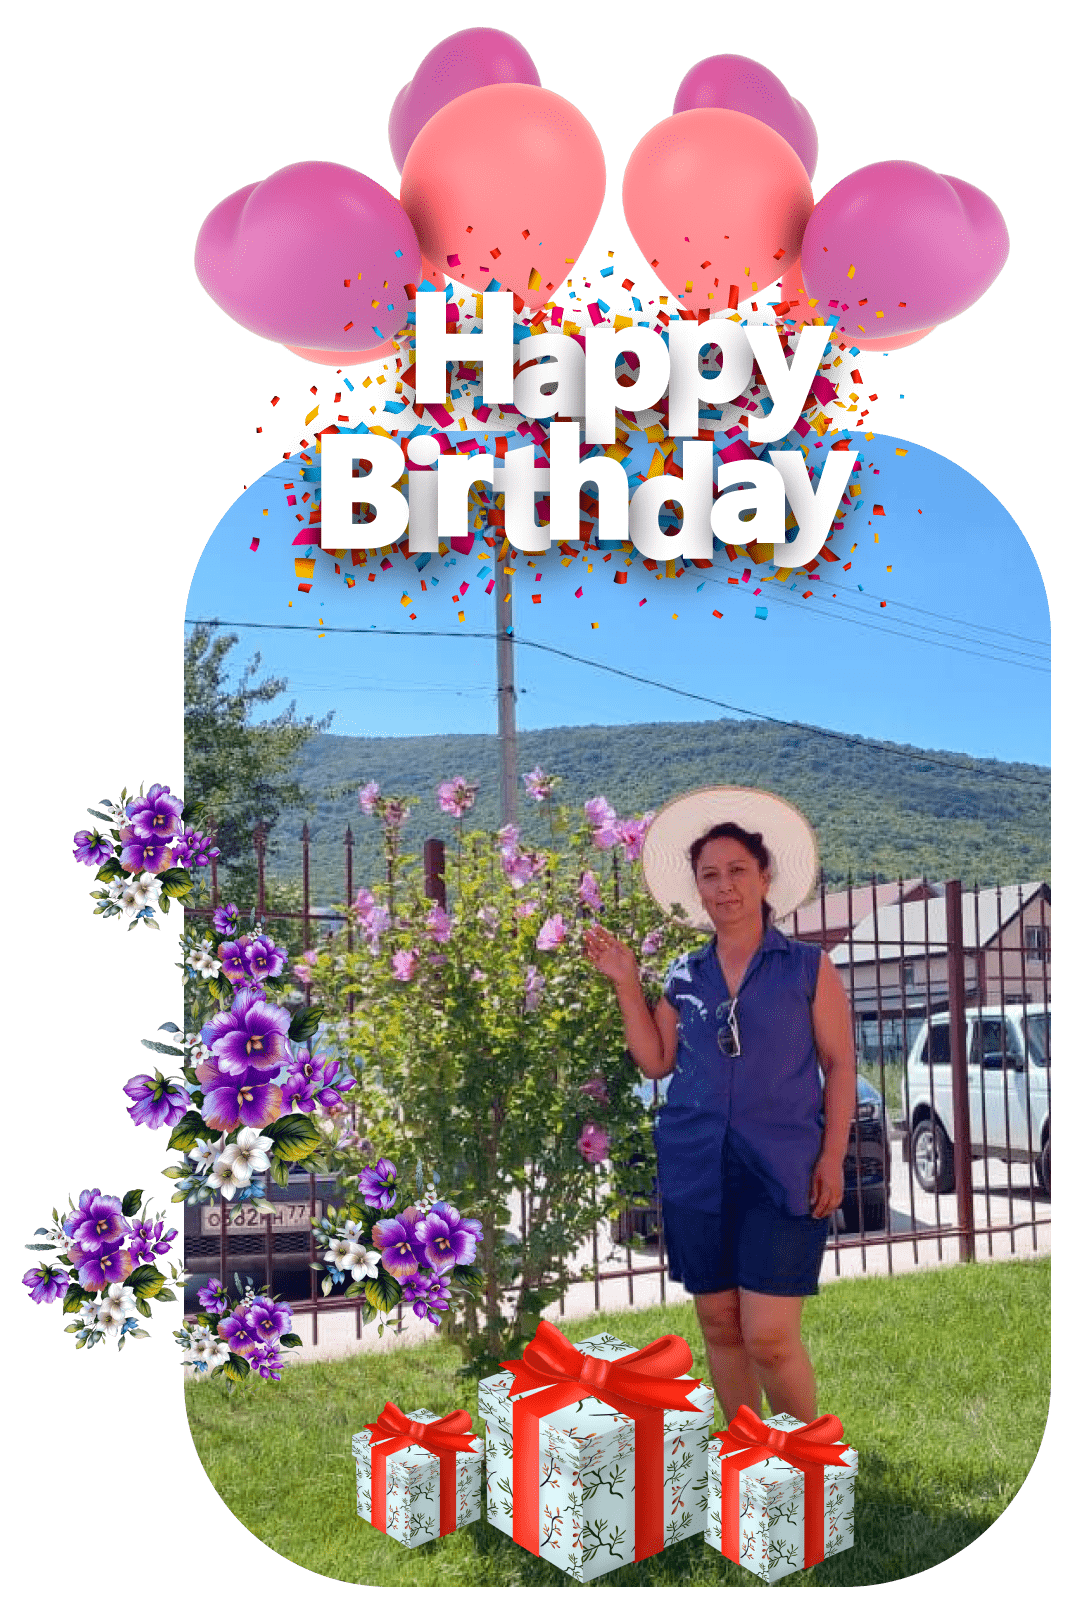
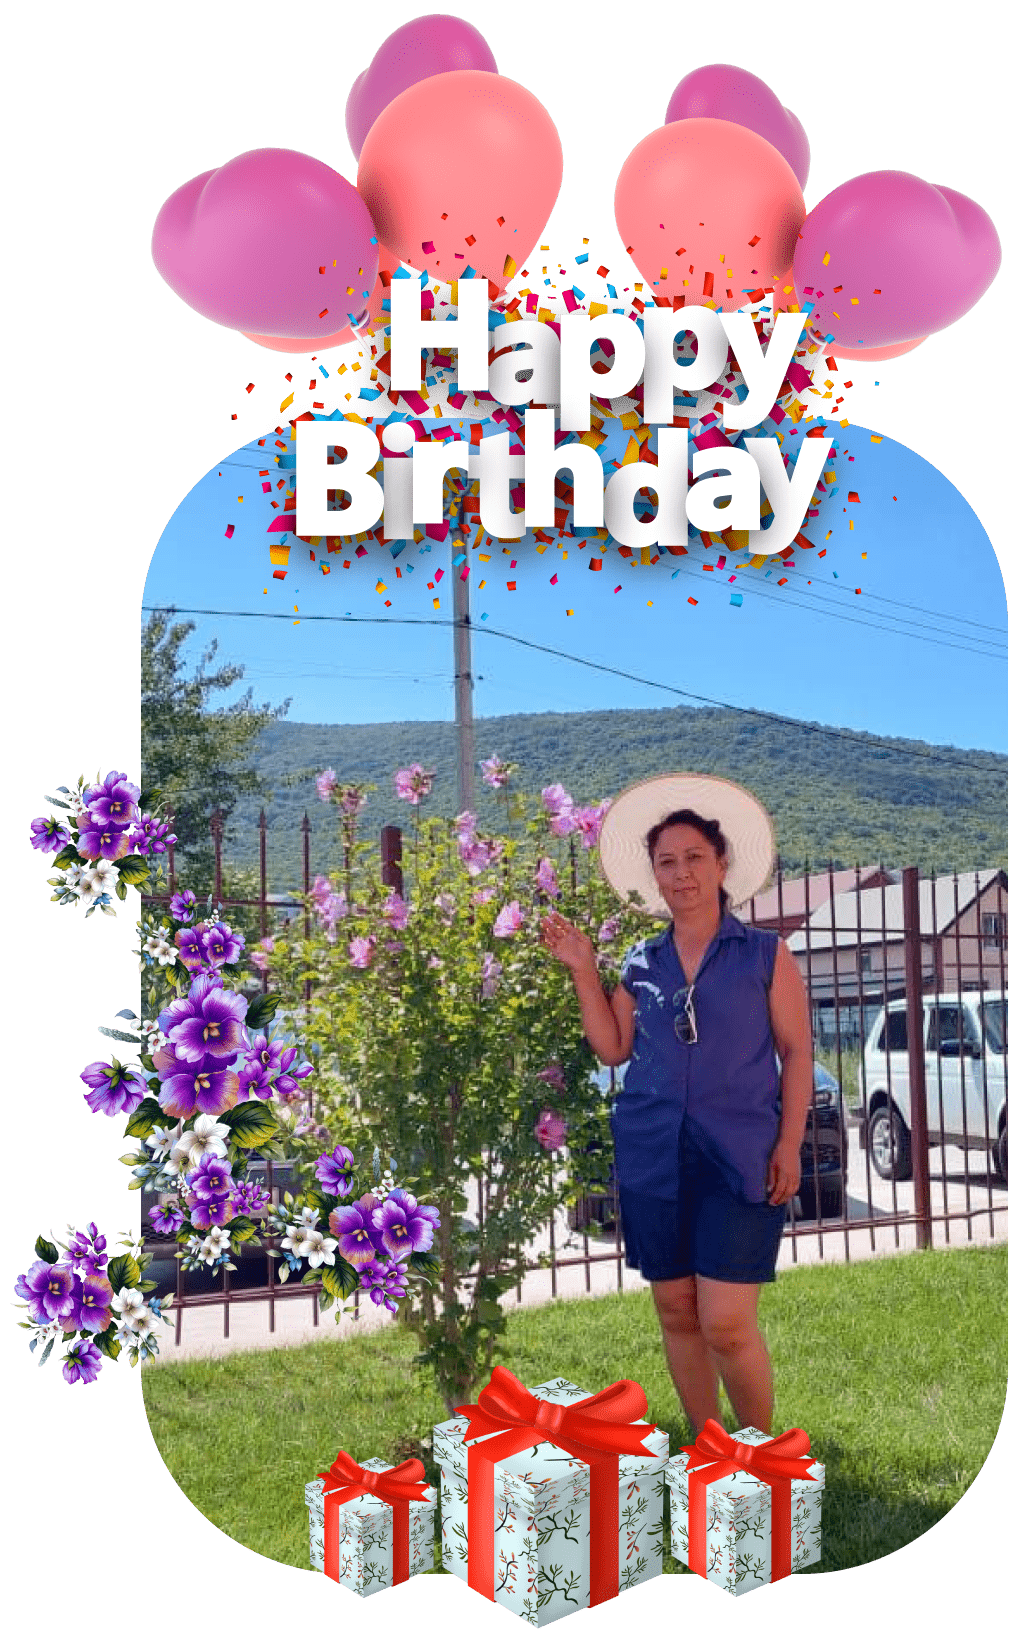
Update 2023-11-10T20:40:39.925Z

diff --git a/index.html b/index.html
@@ -1,3 +1,3 @@
-<!DOCTYPE html><html lang="ru"><head><meta charset="UTF-8"><meta http-equiv="X-UA-Compatible" content="IE=edge"><meta name="viewport" content="width=device-width, initial-scale=1.0"><link rel="icon" href="favicon.ico" type="image/x-icon"><!-- стили для font-icons--><!-- link(rel="stylesheet", href="icons/icons.min.css")--><!-- стили для svg-sprites--><!-- link(rel="stylesheet", href="svg/svg-symbols.min.css")--><link rel="stylesheet" href="css/vendor.min.css"><link rel="stylesheet" href="css/reset.min.css"><link rel="stylesheet" href="css/main.min.css"><title>С Днём Рождения !!!</title></head><body><div class="page"><div class="page__header"><header class="header"></header></div><div class="page__content"><section class="main-page"><div class="wrapper"><div class="main-page__inner"><div class="main-page__decor"><img class="d-block" src="images/ball.png" loading="lazy" alt="ball" width="562" height="589"></div><div class="main-page__decor-2"><img class="d-block" src="images/ball-2.png" loading="lazy" alt="ball" width="668" height="676"></div><div class="main-page__decor-3"><img class="d-block" src="images/box.png" loading="lazy" alt="box" width="424" height="357"></div><div class="main-page__photo"><img class="d-block" src="images/photo.png" loading="lazy" alt="photo" width="1068" height="1605"></div><div class="main-page__container"><div class="main-page__title">С Днём Рождения Вас !!!</div><div class="main-page__description">Моя самая родная и неповторимая мамочка, поздравляю тебя <br>С Днём Рождения!!! <br>Пусть в твоей жизни будет больше поводов для радости. Пусть в твоих глазах будет больше счастья, 
+<!DOCTYPE html><html lang="ru"><head><meta charset="UTF-8"><meta http-equiv="X-UA-Compatible" content="IE=edge"><meta name="viewport" content="width=device-width, initial-scale=1.0"><link rel="icon" href="favicon.ico" type="image/x-icon"><!-- стили для font-icons--><!-- link(rel="stylesheet", href="icons/icons.min.css")--><!-- стили для svg-sprites--><!-- link(rel="stylesheet", href="svg/svg-symbols.min.css")--><link rel="stylesheet" href="css/vendor.min.css"><link rel="stylesheet" href="css/reset.min.css"><link rel="stylesheet" href="css/main.min.css"><title>С Днём Рождения !!!</title></head><body><div class="page"><div class="page__header"><header class="header"></header></div><div class="page__content"><section class="main-page"><div class="wrapper"><div class="main-page__inner"><div class="main-page__decor"><img class="d-block" src="images/ball.png" loading="lazy" alt="ball" width="562" height="589"></div><div class="main-page__decor-2"><img class="d-block" src="images/ball-2.png" loading="lazy" alt="ball" width="668" height="676"></div><div class="main-page__decor-3"><img class="d-block" src="images/box.png" loading="lazy" alt="box" width="424" height="357"></div><div class="main-page__photo"><img class="d-block" src="images/photo.png" loading="lazy" alt="photo" width="1025" height="1637"></div><div class="main-page__container"><div class="main-page__title">С Днём Рождения Вас !!!</div><div class="main-page__description">Моя самая родная и неповторимая мамочка, поздравляю тебя <br>С Днём Рождения!!! <br>Пусть в твоей жизни будет больше поводов для радости. Пусть в твоих глазах будет больше счастья, 
 пусть на твоем лице всегда будет улыбка. Оставайся всегда здоровой и молодой, красивой и самой лучшей. 
 Мне не хватит всех слов, чтобы выразить, как я тебя люблю и как благодарен за всё. <br>Я тебя очень люблю!<span>твой любящий сыночек Али.</span></div></div><div class="main-page__swiper swiper-main"><div class="main-page__swiper-wrapper swiper-wrapper"><div class="main-page__swiper-slide swiper-slide"><img class="d-block" src="images/swiper-photo-1.jpg" loading="lazy" alt="photo" width="959" height="1280"></div><div class="main-page__swiper-slide swiper-slide"><img class="d-block" src="images/swiper-photo-2.jpg" loading="lazy" alt="photo" width="959" height="1280"></div><div class="main-page__swiper-slide swiper-slide"><img class="d-block" src="images/swiper-photo-3.jpg" loading="lazy" alt="photo" width="959" height="1280"></div><div class="main-page__swiper-slide swiper-slide"><img class="d-block" src="images/swiper-photo-4.jpg" loading="lazy" alt="photo" width="959" height="1280"></div><div class="main-page__swiper-slide swiper-slide"><img class="d-block" src="images/swiper-photo-5.jpg" loading="lazy" alt="photo" width="959" height="1280"></div><div class="main-page__swiper-slide swiper-slide"><img class="d-block" src="images/swiper-photo-6.jpg" loading="lazy" alt="photo" width="959" height="1280"></div><div class="main-page__swiper-slide swiper-slide"><img class="d-block" src="images/swiper-photo-7.jpg" loading="lazy" alt="photo" width="959" height="1280"></div><div class="main-page__swiper-slide swiper-slide"><img class="d-block" src="images/swiper-photo-8.jpg" loading="lazy" alt="photo" width="959" height="1280"></div><div class="main-page__swiper-slide swiper-slide"><img class="d-block" src="images/swiper-photo-9.jpg" loading="lazy" alt="photo" width="959" height="1280"></div><div class="main-page__swiper-slide swiper-slide"><img class="d-block" src="images/swiper-photo-10.jpg" loading="lazy" alt="photo" width="959" height="1280"></div></div></div></div></div></section></div><div class="page__footer"></div></div><script src="js/vendor.min.js"></script><script src="js/main.min.js"></script><script src="js/vendor.min.js"></script></body></html>

diff --git a/css/main.min.css b/css/main.min.css
@@ -1,1 +1,1 @@
-.wrapper{max-width:320px;margin:0 auto;padding-left:5px;padding-right:5px;width:100%}.d-none{display:none}.d-block{display:block}.main-page{padding:10px 0 80px;overflow:hidden}.main-page__photo{position:relative;left:calc(50% - 182px)}.main-page__photo img{width:314px;height:auto;margin:0 auto}.main-page__decor img,.main-page__decor-2 img,.main-page__decor-3 img{width:200px;height:auto}.main-page__inner{position:relative;z-index:1;padding:0 0 94px}.main-page__decor,.main-page__decor-2,.main-page__decor-3{position:absolute;z-index:-1}.main-page__decor{bottom:-134px;left:-58px}.main-page__decor-2{bottom:-134px;right:-58px}.main-page__decor-3{bottom:-132px;left:0;right:0}.main-page__decor-3 img{margin:0 auto}.main-page__container{position:relative;z-index:1;color:#00008b;margin:0 0 18px}.main-page__container:before{content:"";position:absolute;z-index:-1;top:-20px;left:-20px;right:-20px;bottom:-20px;background-color:#ffbaba;filter:blur(33px)}.main-page__title{font-size:25px;line-height:120%;margin:0 0 20px;text-align:center;font-family:Gilroy-Regular;font-weight:700;text-shadow:#fc0 1px 0 10px}.main-page__description{text-align:center;font-size:16px;line-height:120%;font-family:Montserrat-Medium}.main-page__description span{font-size:12px;display:block;color:grey;font-family:Gilroy-Regular;text-align:right;margin:20px 0 0}.main-page__swiper{max-width:290px;margin:0 auto;position:relative;z-index:22}.main-page__swiper-slide img{width:290px;height:auto;border-radius:10px}@font-face{font-family:Montserrat-Regular;src:url(../fonts/Montserrat-Regular.woff),url(../fonts/Montserrat-Regular.woff2);font-display:swap}@font-face{font-family:Montserrat-Medium;src:url(../fonts/Montserrat-Medium.woff),url(../fonts/Montserrat-Medium.woff2);font-display:swap}@font-face{font-family:Montserrat-Bold;src:url(../fonts/Montserrat-Bold.woff),url(../fonts/Montserrat-Bold.woff2);font-display:swap}@font-face{font-family:Gilroy-Regular;src:url(../fonts/Gilroy-Regular.woff),url(../fonts/Gilroy-Regular.woff2);font-display:swap}.page{display:flex;flex-direction:column;min-height:100%;background:linear-gradient(1deg,#f7ace9 6.35%,#f5daff 95.67%)}.page__content{flex:1}@media only screen and (min-width:576px){.wrapper{max-width:770px}.d-xs-none{display:none}.d-xs-block{display:block}.main-page__photo{left:auto}}
+.wrapper{max-width:320px;margin:0 auto;padding-left:5px;padding-right:5px;width:100%}.d-none{display:none}.d-block{display:block}.main-page{padding:10px 0 80px;overflow:hidden}.main-page__photo{position:relative;left:calc(50% - 177px)}.main-page__photo img{width:314px;height:auto;margin:0 auto}.main-page__inner{position:relative;z-index:1;padding:0 0 112px}.main-page__decor,.main-page__decor-2,.main-page__decor-3{position:absolute;z-index:-1}.main-page__decor{bottom:-91px;left:-6px;transform:rotate(350deg)}.main-page__decor img{width:169px;height:auto}.main-page__decor-2{bottom:-95px;right:-7px;transform:rotate(10deg)}.main-page__decor-2 img{width:214px;height:auto}.main-page__decor-3{bottom:-159px;left:0;right:0}.main-page__decor-3 img{margin:0 auto;width:217px;height:auto}.main-page__container{position:relative;z-index:1;color:#00008b;margin:0 0 18px}.main-page__container:before{content:"";position:absolute;z-index:-1;top:-20px;left:-20px;right:-20px;bottom:-20px;background-color:#ffbaba;filter:blur(33px)}.main-page__title{font-size:25px;line-height:120%;margin:0 0 20px;text-align:center;font-family:Gilroy-Regular;font-weight:700;text-shadow:#fc0 1px 0 10px}.main-page__description{text-align:center;font-size:16px;line-height:120%;font-family:Montserrat-Medium}.main-page__description span{font-size:12px;display:block;color:grey;font-family:Gilroy-Regular;text-align:right;margin:20px 0 0}.main-page__swiper{max-width:290px;margin:0 auto;position:relative;z-index:22}.main-page__swiper-slide img{width:290px;height:auto;border-radius:10px}@font-face{font-family:Montserrat-Regular;src:url(../fonts/Montserrat-Regular.woff),url(../fonts/Montserrat-Regular.woff2);font-display:swap}@font-face{font-family:Montserrat-Medium;src:url(../fonts/Montserrat-Medium.woff),url(../fonts/Montserrat-Medium.woff2);font-display:swap}@font-face{font-family:Montserrat-Bold;src:url(../fonts/Montserrat-Bold.woff),url(../fonts/Montserrat-Bold.woff2);font-display:swap}@font-face{font-family:Gilroy-Regular;src:url(../fonts/Gilroy-Regular.woff),url(../fonts/Gilroy-Regular.woff2);font-display:swap}.page{display:flex;flex-direction:column;min-height:100%;background:linear-gradient(1deg,#f7ace9 6.35%,#f5daff 95.67%)}.page__content{flex:1}@media only screen and (min-width:576px){.wrapper{max-width:770px}.d-xs-none{display:none}.d-xs-block{display:block}.main-page__photo{left:auto}}
